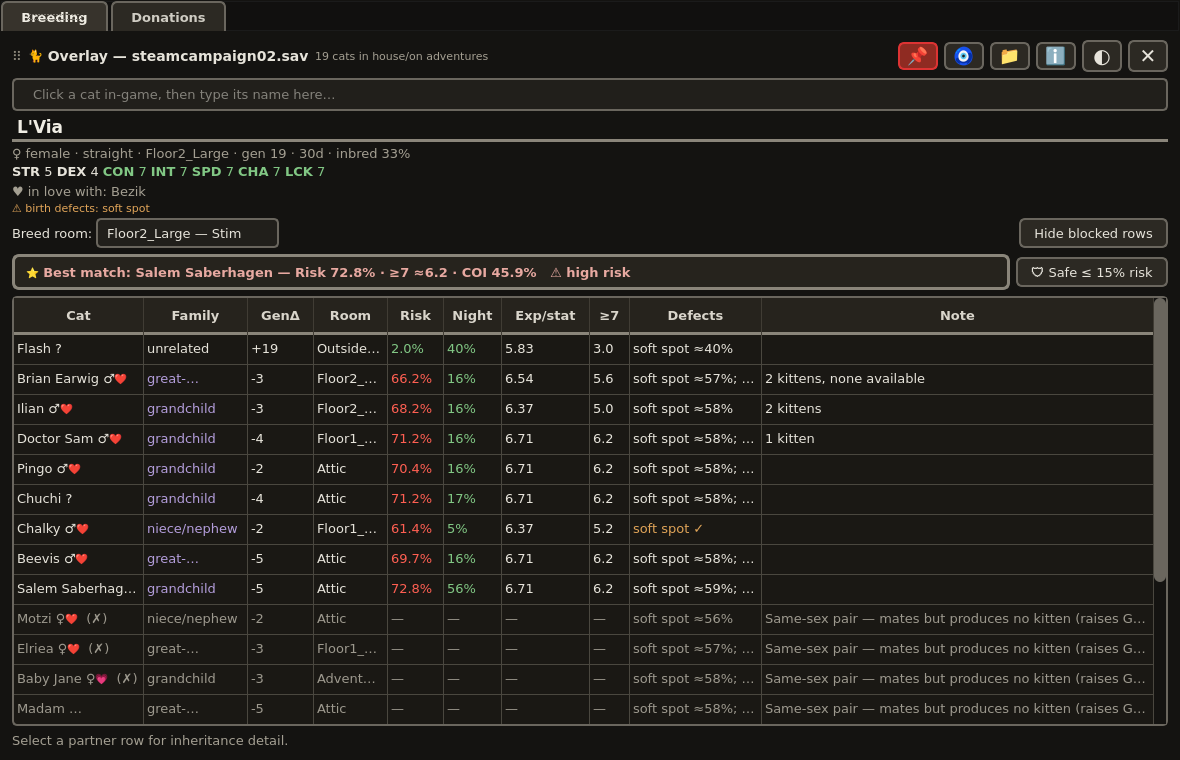
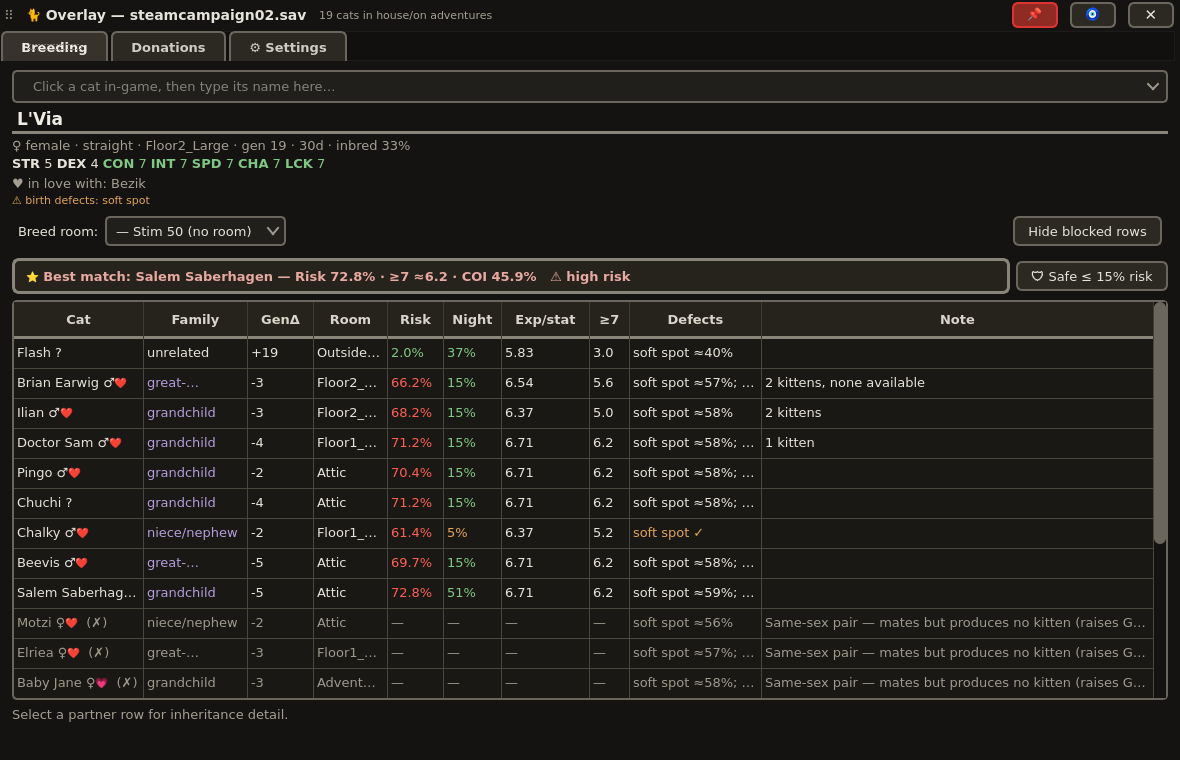
Public pages share the site menu/footer via public_frame (report + thanks), regenerate 1180x760 screenshots (breeding dark/light w/ L'Via, donations dark w/ Dr. Beanies), em-dash-free copy; 39 tests green

Changed region(s): [[0.0, 0.0, 1.0, 0.9987], [0.9763, 0.6961, 1.0, 0.7868]]

diff --git a/templates/public_frame.html b/templates/public_frame.html
@@ -1,0 +1,69 @@
+<!doctype html>
+<html lang="en">
+<head>
+<meta charset="utf-8">
+<meta name="viewport" content="width=device-width, initial-scale=1">
+<title>{title} · Mewgenics Breeding Overlay</title>
+<style>
+  :root { --bg:#14120f; --card:#1e1b16; --card2:#262219; --line:#3a3429;
+          --text:#ece7dc; --muted:#a49f92; --accent:#c62828; --accent2:#e8a33d;
+          --purple:#b39ddb; --font:system-ui, -apple-system, sans-serif; }
+  * { box-sizing:border-box; }
+  html { scroll-behavior:smooth; }
+  body { margin:0; background:var(--bg); color:var(--text); font:16px/1.65 var(--font); }
+  a { color:var(--purple); text-decoration:none; }
+  a:hover { text-decoration:underline; }
+  .wrap { max-width:980px; margin:0 auto; padding:0 22px; }
+  header { position:sticky; top:0; z-index:5; background:rgba(20,18,15,.92);
+           backdrop-filter:blur(6px); border-bottom:1px solid var(--line); }
+  nav { display:flex; align-items:center; gap:18px; height:58px; }
+  nav .logo { font-weight:700; font-size:17px; color:var(--text); }
+  nav .logo .dot { color:var(--accent2); }
+  nav .links { margin-left:auto; display:flex; gap:16px; font-size:14px; }
+  nav .links a { color:var(--muted); }
+  nav .links a:hover { color:var(--text); text-decoration:none; }
+  nav .links a.active { color:var(--accent2); font-weight:600; }
+  main.page { min-height:70vh; }
+  main .card { max-width:720px; margin:34px auto; background:var(--card);
+          border:1px solid var(--line); border-radius:14px; padding:26px 28px; }
+  main h1 { font-size:24px; margin:0 0 6px; }
+  main h1 small { display:block; color:var(--muted); font-weight:normal;
+       font-size:14px; margin-top:6px; }
+  label { display:block; margin:16px 0 6px; color:var(--muted); font-size:14px; }
+  input, select, textarea { width:100%; padding:10px; border:1px solid var(--line);
+       border-radius:8px; background:var(--card2); color:var(--text); font:inherit; }
+  textarea { min-height:110px; resize:vertical; font-family:ui-monospace, monospace; font-size:13px; }
+  .row { display:flex; gap:12px; } .row > div { flex:1; }
+  button { margin-top:20px; width:100%; padding:13px; border:0; border-radius:8px;
+       background:var(--accent); color:#fff; font:inherit; font-weight:600; cursor:pointer; }
+  .hint { color:var(--muted); font-size:13px; margin-top:4px; }
+  .center { text-align:center; }
+  footer { border-top:1px solid var(--line); padding:26px 0 46px; color:var(--muted);
+           font-size:13px; text-align:center; margin-top:40px; }
+  footer a { color:var(--muted); text-decoration:underline; }
+  @media (max-width:640px){ nav { flex-wrap:wrap; height:auto; padding:10px 0; gap:8px; }
+    nav .links { margin-left:0; flex-wrap:wrap; row-gap:6px; } }
+</style>
+</head>
+<body>
+<header><div class="wrap">
+  <nav>
+    <a href="/" class="logo">🐈 Mewgenics<span class="dot"> Overlay</span></a>
+    <span class="links">
+      <a href="/#download">Download</a>
+      <a href="/#features">Features</a>
+      <a href="/#safety">Safety</a>
+      <a href="/#faq">FAQ</a>
+      <a href="/report" class="{active}">Feedback</a>
+    </span>
+  </nav>
+</div></header>
+<main class="page">{body}</main>
+<footer><div class="wrap">
+  <p><b>Mewgenics Breeding Overlay</b> · free · MIT · read-only ·
+    <a href="https://github.com/thebeardbe/mewgenics-breeding-overlay">source</a></p>
+  <p>Parser/genetics: <a href="https://github.com/frankieg33/MewgenicsBreedingManager">MewgenicsBreedingManager</a>
+  (MIT) · <a href="https://store.steampowered.com/app/686060/">Mewgenics</a> on Steam</p>
+</div></footer>
+</body>
+</html>

diff --git a/templates/report.html b/templates/report.html
@@ -1,32 +1,4 @@
-<!doctype html>
-<html lang="en">
-<head>
-<meta charset="utf-8">
-<meta name="viewport" content="width=device-width, initial-scale=1">
-<title>Report a problem · Mewgenics Breeding Overlay</title>
-<style>
-  :root { --bg:#171614; --card:#24211d; --line:#3a3731; --text:#e8e4dc;
-          --muted:#a49f92; --accent:#c62828; --btn:#2e2a24; }
-  * { box-sizing:border-box; }
-  body { margin:0; font:16px/1.5 system-ui, sans-serif; background:var(--bg);
-         color:var(--text); }
-  main { max-width:680px; margin:0 auto; padding:32px 20px 80px; }
-  h1 { font-size:22px; } h1 small { display:block; color:var(--muted);
-       font-weight:normal; font-size:14px; margin-top:6px; }
-  label { display:block; margin:18px 0 6px; color:var(--muted); font-size:14px; }
-  input, select, textarea { width:100%; padding:10px; border:1px solid var(--line);
-       border-radius:8px; background:var(--card); color:var(--text); font:inherit; }
-  textarea { min-height:110px; resize:vertical; font-family:ui-monospace, monospace; font-size:13px; }
-  .row { display:flex; gap:12px; } .row > div { flex:1; }
-  button { margin-top:22px; width:100%; padding:13px; border:0; border-radius:8px;
-       background:var(--accent); color:#fff; font:inherit; font-weight:600; cursor:pointer; }
-  .hint { color:var(--muted); font-size:13px; margin-top:4px; }
-  .footer { margin-top:26px; color:var(--muted); font-size:12px; text-align:center; }
-  a { color:#c7b8e8; }
-</style>
-</head>
-<body>
-<main>
+<div class="card">
   <h1>Report a problem <small>Mewgenics Breeding Overlay · open source &amp; read-only.
     Reports go straight to the developer.</small></h1>
 
@@ -59,12 +31,9 @@
     <label for="log">Debug info / log paste (optional but very helpful)
       <span class="hint">Use the “Copy debug info” button in the overlay's About box,
       then paste here. If it crashed, the log file sits next to the app
-      (<code>overlay.log</code>), then paste the tail of it.</span></label>
+      (<code>overlay.log</code>) · paste the tail of it.</span></label>
     <textarea id="log" name="log" placeholder="Paste debug info here…"></textarea>
 
     <button type="submit">Send report</button>
   </form>
-  <div class="footer">Free &amp; MIT licensed · <a href="https://github.com/thebeardbe/mewgenics-breeding-overlay">source</a> · <a href="/">← home</a></div>
-</main>
-</body>
-</html>
+</div>

diff --git a/templates/thanks.html b/templates/thanks.html
@@ -1,22 +1,5 @@
-<!doctype html>
-<html lang="en">
-<head>
-<meta charset="utf-8">
-<meta name="viewport" content="width=device-width, initial-scale=1">
-<title>Thanks · Mewgenics Breeding Overlay</title>
-<style>
-  body { margin:0; background:#171614; color:#e8e4dc; font:18px/1.6 system-ui, sans-serif;
-         display:grid; place-items:center; min-height:100vh; text-align:center; }
-  main { max-width:520px; padding:24px; }
-  code { background:#24211d; padding:2px 8px; border-radius:6px; color:#c7b8e8; }
-  a { color:#c7b8e8; }
-</style>
-</head>
-<body>
-<main>
+<div class="card center">
   <h1>Got it, thanks! 🐈</h1>
   <p>Your report <code>{rid}</code> is in. The developer reads every one.</p>
-  <p><a href="/report">Report another</a> · <a href="/">Back to home</a></p>
-</main>
-</body>
-</html>
+  <p><a href="/report">Report another problem</a></p>
+</div>

diff --git a/app.py b/app.py
@@ -310,9 +310,27 @@ def home():
     return _render("index.html", version=latest_version())
 
 
+def _public_page(fragment: str, title: str, active: str = "", **ctx) -> HTMLResponse:
+    """A public page: shared menu/footer (public_frame.html) around a content
+    fragment, so /report feels like the same site as the landing page."""
+    frame = (TEMPLATES / "public_frame.html").read_text(encoding="utf-8")
+    body = (TEMPLATES / fragment).read_text(encoding="utf-8")
+    html = frame.replace("{body}", body, 1)
+    ctx["title"] = title
+    ctx["active"] = active
+
+    def _sub(m):
+        key = m.group(1)
+        return str(ctx.get(key, m.group(0)))
+
+    html = re.sub(r"\{(\w+)\}", _sub, html)
+    return HTMLResponse(html)
+
+
 @app.get("/report", response_class=HTMLResponse)
 def report_page():
-    return _render("report.html", report_url="/submit")
+    return _public_page("report.html", "Report a problem", "active",
+                        report_url="/submit")
 
 
 @app.post("/submit")
@@ -334,7 +352,7 @@ def submit(
         "log": log, "name": name, "contact": contact,
     })
     _analyze_in_background(rid)
-    return _render("thanks.html", rid=rid)
+    return _public_page("thanks.html", "Thanks", rid=rid)
 
 
 @app.post("/api/report")
